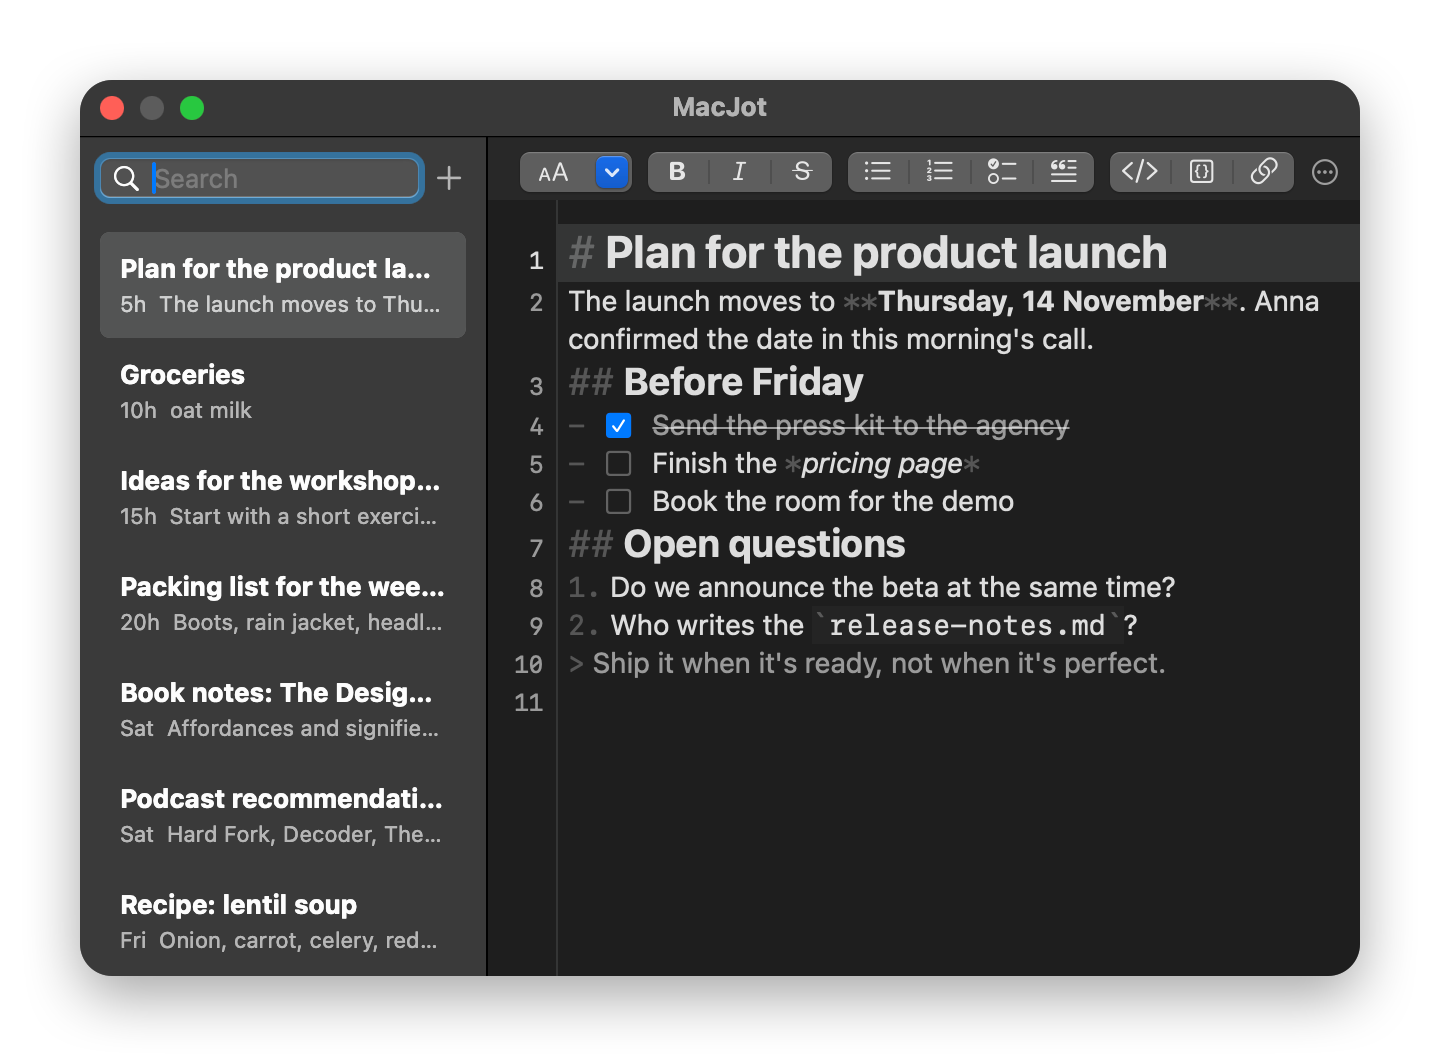
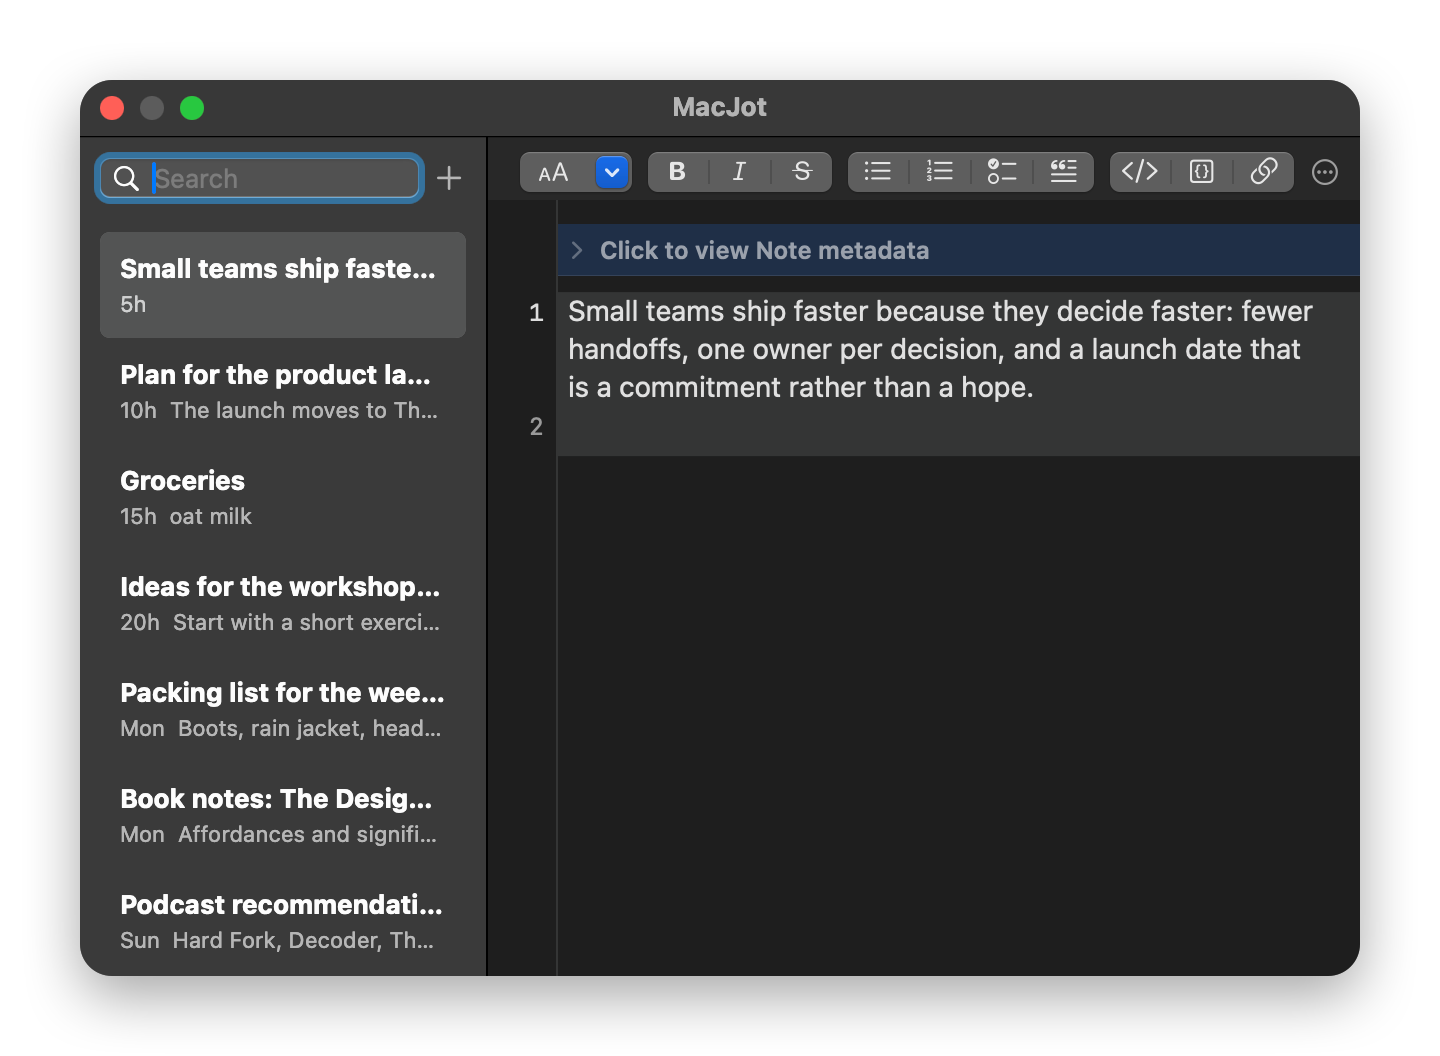
README: Clip screenshot with collapsed metadata, plus a second one with it opened
The renderer's most recent sample Note is now an invented Clip; a second pair of screenshots shows its metadata section expanded.

diff --git a/.scratch/screenshot/main.swift b/.scratch/screenshot/main.swift
@@ -67,6 +67,15 @@ let samples = [
 
     > Ship it when it's ready, not when it's perfect.
     """,
+    // A Clip (invented source and page), the most recent: opens with its metadata collapsed.
+    """
+    ---
+    created: 2026-11-14T09:12:00+01:00
+    source: Safari
+    page: How small teams ship faster, Example Weekly
+    ---
+    Small teams ship faster because they decide faster: fewer handoffs, one owner per decision, and a launch date that is a commitment rather than a hope.
+    """,
 ]
 for (i, text) in samples.enumerated() {
     let url = folderURL.appendingPathComponent("note-\(i).md")
@@ -89,5 +98,9 @@ for (appearance, suffix) in [(NSAppearance.Name.aqua, "light"), (.darkAqua, "dar
     controller.showNotes()
     pump()
     save(controller.panel.contentView!.superview!, "screenshot-\(suffix)")
+    // The same Clip with its metadata section opened (View > Show Frontmatter).
+    controller.toggleFrontmatter()
+    pump()
+    save(controller.panel.contentView!.superview!, "screenshot-metadata-\(suffix)")
     controller.panel.orderOut(nil)
 }

diff --git a/README.md b/README.md
@@ -14,6 +14,11 @@ MacJot is a menu bar app for macOS that lets you write a note the moment you thi
 
 **Note metadata, out of your way.** A note that starts with a properties block (the Clips do) shows it as its own collapsed section at the top of the editor. One line tells you the source at a glance; click it, or press ⌥⌘P, to see and edit the details. If you'd rather see them always, there's a setting for that. Find opens the section by itself when the word you're looking for is in there.
 
+<picture>
+  <source media="(prefers-color-scheme: dark)" srcset="docs/screenshot-metadata-dark.png">
+  <img src="docs/screenshot-metadata-light.png" alt="A clipped note with its metadata section opened above the text: created, source and page" width="720">
+</picture>
+
 **Search that looks at metadata too.** Searching all your notes now also finds what's in a note's properties. Search for "Safari" and you get every note you clipped from Safari, and the row shows the matching line, so you see why it matched.
 
 **Calmer window handling.** When you switch to another app while a note is open, the MacJot panel now steps back behind that app's windows instead of floating dimmed on top of them. The hotkeys, the menu bar item or a click on the panel bring it forward again, with your text as you left it.
